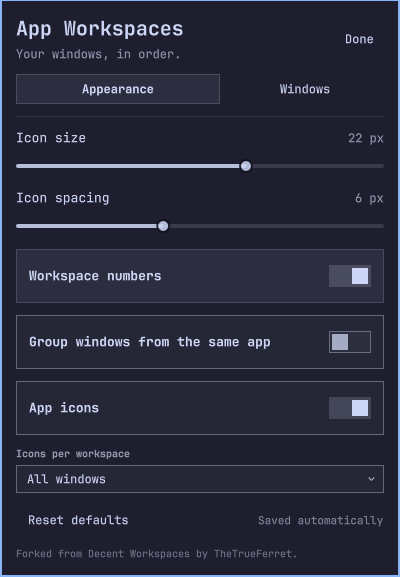
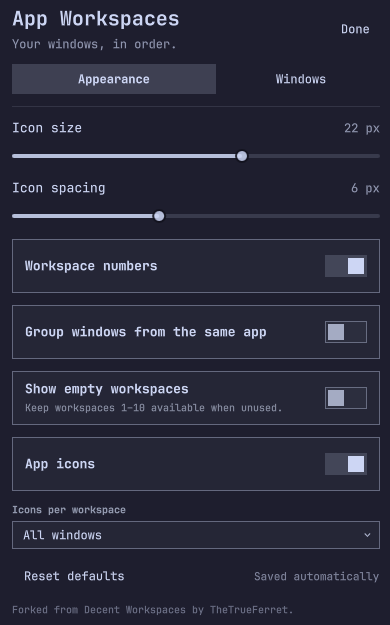
Fix settings clicks and show unused workspace destinations

Changed region(s): [[0.0, 0.0, 1.0, 1.0], [0.7077, 0.0936, 0.8308, 0.1872], [0.8615, 0.0312, 0.9538, 0.0936]]

diff --git a/Workspaces.qml b/Workspaces.qml
@@ -140,6 +140,15 @@ BarWidget {
   function open() { root.popupAnchor = strip; root.opened = true }
   function close() { root.opened = false }
   function toggle() { root.opened ? root.close() : root.open() }
+  // The bar and open KeyboardPanels forward clicks to registered WidgetButtons.
+  // Register app buttons after their enclosing pill so the narrower hit wins.
+  function syncClickTargets() {
+    for (var i = 0; i < workspaceRepeater.count; i++) {
+      var pill = workspaceRepeater.itemAt(i)
+      if (pill) pill.syncClickTargets()
+    }
+  }
+  onBarChanged: Qt.callLater(root.syncClickTargets)
   function setOption(key, value) {
     var normal = Model.normalizeSettings(({}))
     if (!Object.prototype.hasOwnProperty.call(normal, key)) return false
@@ -160,7 +169,7 @@ BarWidget {
     if (root.bar && root.bar.shell) root.bar.shell.updateEntryInline(root.moduleName, next)
   }
   function status() {
-    return JSON.stringify({version: "0.1.0", activeScratchpads: root.activeSpecialIds, options: root.options, screen: root.screenName, activeWorkspace: root.activeId,
+    return JSON.stringify({version: "0.1.0", settingsOpen: root.opened, activeScratchpads: root.activeSpecialIds, options: root.options, screen: root.screenName, activeWorkspace: root.activeId,
       workspaces: root.visibleWorkspaces.map(function(ws) { return {id: ws.id, name: ws.name, windows: root.presentWindows(ws.id)} })})
   }
   IpcHandler {
@@ -189,7 +198,9 @@ BarWidget {
     columnSpacing: 6
     rowSpacing: 6
     Repeater {
+      id: workspaceRepeater
       model: root.visibleWorkspaces
+      onItemAdded: Qt.callLater(root.syncClickTargets)
       Rectangle {
         id: pill
         required property var modelData
@@ -198,29 +209,38 @@ BarWidget {
         readonly property var apps: root.presentWindows(pill.modelData.id)
         readonly property var shownApps: !root.options.showIcons ? [] : root.options.maxIcons > 0 ? pill.apps.slice(0, root.options.maxIcons) : pill.apps
         readonly property int overflow: root.options.showIcons ? pill.apps.length - pill.shownApps.length : 0
+        function syncClickTargets() {
+          workspaceMouse.syncClickRegistration()
+          for (var i = 0; i < appRepeater.count; i++) {
+            var app = appRepeater.itemAt(i)
+            if (app) app.clickTarget.syncClickRegistration()
+          }
+        }
         implicitWidth: root.vertical ? root.barSize - 4 : content.implicitWidth + 18
         implicitHeight: root.vertical ? content.implicitHeight + 12 : root.barSize - 6
         radius: Math.min(9, height / 2)
         color: pill.modelData.urgent ? Util.alpha(Color.urgent, 0.23)
           : pill.active ? Util.alpha(root.foreground, 0.15)
-          : workspaceMouse.containsMouse ? Util.alpha(root.foreground, 0.07) : "transparent"
+          : workspaceMouse.tooltipHovered ? Util.alpha(root.foreground, 0.07) : "transparent"
         border.width: pill.active ? 1 : 0
         border.color: Util.alpha(root.foreground, 0.13)
-        MouseArea {
+        WidgetButton {
           id: workspaceMouse
           anchors.fill: parent
-          hoverEnabled: true
-          acceptedButtons: Qt.LeftButton | Qt.RightButton
-          cursorShape: Qt.PointingHandCursor
-          onClicked: function(mouse) {
-            if (mouse.button === Qt.RightButton) { root.popupAnchor = pill; root.opened = true }
-            else if (pill.special) root.toggleScratchpad(pill.modelData.name)
-            else root.focusWorkspace(pill.modelData.id)
+          bar: root.bar
+          labelVisible: false
+          hasVisualContent: true
+          onPressed: function(button) {
+            if (button === Qt.RightButton) { root.popupAnchor = pill; root.opened = true }
+            else if (button === Qt.LeftButton) {
+              if (pill.special) root.toggleScratchpad(pill.modelData.name)
+              else root.focusWorkspace(pill.modelData.id)
+            }
           }
-          onWheel: function(wheel) { root.scroll(wheel.angleDelta.y) }
+          onWheelMoved: function(delta) { root.scroll(delta) }
         }
         PanelToolTip {
-          visible: workspaceMouse.containsMouse && !root.opened
+          visible: workspaceMouse.tooltipHovered && !root.opened
           text: pill.special ? "Scratchpad: " + pill.modelData.name.replace(/^special:?/, "") : "Workspace " + pill.modelData.id
         }
         GridLayout {
@@ -243,10 +263,13 @@ BarWidget {
             Layout.rightMargin: root.vertical || pill.shownApps.length === 0 ? 0 : 2
           }
           Repeater {
+            id: appRepeater
             model: pill.shownApps
+            onItemAdded: Qt.callLater(root.syncClickTargets)
             Item {
               id: app
               required property var modelData
+              property alias clickTarget: appMouse
               implicitWidth: root.options.iconSize
               implicitHeight: root.options.iconSize
               Layout.alignment: Qt.AlignCenter
@@ -287,20 +310,20 @@ BarWidget {
                 border.width: 1
                 border.color: root.foreground
               }
-              MouseArea {
+              WidgetButton {
                 id: appMouse
                 anchors.fill: parent
-                hoverEnabled: true
-                acceptedButtons: Qt.LeftButton | Qt.RightButton
-                cursorShape: Qt.PointingHandCursor
-                onClicked: function(mouse) {
-                  if (mouse.button === Qt.RightButton) { root.popupAnchor = pill; root.opened = true }
-                  else root.focusWindow(app.modelData.address, pill.modelData.id)
+                bar: root.bar
+                labelVisible: false
+                hasVisualContent: true
+                onPressed: function(button) {
+                  if (button === Qt.RightButton) { root.popupAnchor = pill; root.opened = true }
+                  else if (button === Qt.LeftButton) root.focusWindow(app.modelData.address, pill.modelData.id)
                 }
-                onWheel: function(wheel) { root.scroll(wheel.angleDelta.y) }
+                onWheelMoved: function(delta) { root.scroll(delta) }
               }
               PanelToolTip {
-                visible: appMouse.containsMouse && !root.opened
+                visible: appMouse.tooltipHovered && !root.opened
                 text: app.modelData.name + (app.modelData.floating ? " · Floating" : "") + (app.modelData.pinned ? " · Pinned" : "") + (app.modelData.title && app.modelData.title !== app.modelData.name ? "\n" + app.modelData.title.substring(0, 180) : "")
               }
             }

diff --git a/WindowModel.js b/WindowModel.js
@@ -122,14 +122,23 @@ function normalizeSettings(raw) {
 }
 
 // Rows contain numeric id, monitor name and numeric windows count. Active ID
-// is the workspace active on this bar's monitor. Empty rows come from live
-// state; this function never synthesizes workspace numbers or caps them at 10.
+// is the workspace active on this bar's monitor. When requested, offer Omarchy's
+// standard 1–10 destinations even before Hyprland creates them. Keep live IDs
+// above 10, and never duplicate a workspace owned by another monitor.
 function visibleWorkspaces(workspaces, monitorName, activeId, settings) {
     settings = normalizeSettings(settings);
-    return (Array.isArray(workspaces) ? workspaces : []).filter(function (w) {
+    var rows = (Array.isArray(workspaces) ? workspaces : []).filter(function (w) {
         return w && typeof w.id === "number" && isFinite(w.id) && w.id > 0
-            && Math.floor(w.id) === w.id
-            && (!settings.perMonitor || w.monitor === monitorName)
+            && Math.floor(w.id) === w.id;
+    });
+    if (settings.showEmpty) {
+        for (var id = 1; id <= 10; id++) {
+            if (!rows.some(function(w) { return w.id === id; }))
+                rows.push({id: id, name: String(id), monitor: monitorName, windows: 0, placeholder: true});
+        }
+    }
+    return rows.filter(function(w) {
+        return (!settings.perMonitor || w.monitor === monitorName)
             && (settings.showEmpty || w.id === activeId || w.windows > 0);
     }).sort(function (a, b) { return a.id - b.id; });
 }

diff --git a/SettingsPanel.qml b/SettingsPanel.qml
@@ -122,8 +122,9 @@ KeyboardPanel {
         }
         Toggle {
           width: parent.width
-          visible: panel.page === "windows"
+          visible: panel.page === "appearance"
           label: "Show empty workspaces"
+          description: "Keep workspaces 1–10 available when unused."
           titleSize: 13
           checked: panel.widget.options.showEmpty
           onClicked: panel.widget.setOption("showEmpty", !checked)

diff --git a/docs/validation.md b/docs/validation.md
@@ -42,13 +42,58 @@ resolved correctly. Tray-only apps have no workspace window to display.
 Multiple monitors, vertical bars, mixed display scales, other themes, long
 scratchpad names, and every browser's PWA class convention have not received
 live coverage. Monitor filtering and spatial ordering have model coverage.
-Scratchpad focus was exercised through the same activation function used by
-app clicks; automated physical mouse clicking was not exercised.
+The initial scratchpad focus check used the activation function directly.
+The follow-up below adds compositor pointer coverage.
 
-Empty numbered workspaces depend on Hyprland's live workspace list. The empty
-scratchpad preference remembers names during the current shell session and
+With Show empty workspaces enabled, unused destinations 1–10 remain available.
+Other empty numbered workspaces depend on Hyprland's live workspace list.
+The empty scratchpad preference remembers names during the current shell session and
 always offers `special:scratchpad`. It does not create permanent workspace rules.
 
 The native settings panel scrolls when a display cannot fit its full height.
 Very short vertical bars and workspace strips with many windows may need an
 icon limit. The plugin does not automatically hide occupied workspaces to fit.
+
+## Settings follow-up, 2026-09-08
+
+Reproduced a missed right-click when another native panel was open. With the
+calendar open, right-clicking an app only dismissed the calendar. With panels
+closed, the same click opened App Workspaces settings. The plugin's MouseAreas
+were absent from the bar's registered click targets, which KeyboardPanel uses
+to forward clicks from its overlay.
+
+Workspace pills and app icons now use native WidgetButtons. Registration puts
+app buttons after their enclosing pill so forwarded clicks select the app.
+The `status` response includes `settingsOpen` for verification.
+
+Show empty workspaces moved to Appearance. Previously it only included empty
+workspaces still present in Hyprland's live list, so toggling it could leave
+the bar unchanged. It now offers unused destinations 1–10, matching Omarchy's
+standard number shortcuts. It preserves live IDs above 10 and excludes known
+workspaces on other monitors when Only this monitor is enabled. These are bar
+destinations, with no persistent workspace rules installed.
+
+Live checks used a temporary Wayland virtual pointer on the existing horizontal
+floating bar. No mouse-button binding or input configuration was installed.
+
+- Right-click opened settings on a workspace label and an app icon with panels
+  closed, and from the open calendar. The scratchpad also opened settings from
+  the calendar.
+- Left-click on an app from the calendar focused its exact window address.
+- Settings stayed open after an explicit model refresh and the periodic refresh.
+- Clicking Done closed settings.
+- Clicking Show empty workspaces in Appearance displayed destinations 1–10.
+  Clicking empty destination 4 activated workspace 4. Returning to the original
+  workspace and disabling the option restored the occupied numbers 1, 2, and 3.
+- Mouse navigation reached Windows, where Show empty workspaces was absent.
+  Both settings screenshots were refreshed with panel-only captures.
+- The installer preserved saved options. After the checks, Show empty workspaces
+  was restored to off. A cropped bar capture confirmed the existing appearance.
+  The running log had no plugin QML warnings or errors.
+- Native plugin validation passed. `qmllint` on both QML files with resolved
+  native imports exited zero, with warnings for dynamic properties and outer IDs.
+- All 16 Node model tests passed. The regression for missing unused destinations
+  failed against the previous model before the fix.
+
+The installer was unchanged, so its earlier tests were not repeated. The other
+live coverage limits above still apply.

diff --git a/README.md b/README.md
@@ -80,7 +80,7 @@ toggles. Escape closes the panel. Reset defaults resets both pages.
 | Icon spacing | 6 px | 2–12 px. |
 | Icons per workspace | All | Limit the visible count and show `+N` for the rest. |
 | Group windows from the same app | Off | Show the leftmost window for each class; clicking focuses that representative. |
-| Show empty workspaces | Off | Include empty workspaces reported by Hyprland; never invent numbers 1–10. |
+| Show empty workspaces | Off | In Appearance. Include unused destinations 1–10 and other empty workspaces reported by Hyprland. |
 | Only this monitor | On | Filter numbered workspaces to the bar's monitor. |
 | Show scratchpads | On | Separate pills for special workspaces. |
 | Keep empty scratchpads visible | Off | Retain the default scratchpad and named scratchpads encountered during this shell session. |
@@ -123,7 +123,8 @@ omarchy-shell io.github.zucram.app-workspaces refresh
 omarchy-shell io.github.zucram.app-workspaces open
 ```
 
-`status` reports local window titles, icon sources, ordering, and settings.
+`status` reports local window titles, icon sources, ordering, settings, and
+whether the settings panel is open (`settingsOpen`).
 Review titles before sharing its output. Nothing is transmitted by the plugin.
 Window events trigger a refresh; a one-second compositor refresh also catches
 geometry changes that have no event. Unchanged snapshots keep their delegates.

diff --git a/docs/marketplace-submission.md b/docs/marketplace-submission.md
@@ -4,6 +4,10 @@ Status: prepared locally. The public repository has not been created and no
 marketplace issue has been sent. The planned repository is
 `https://github.com/zucram/omarchy-app-workspaces`.
 
+The initial local `v0.1.0` tag and archive predate the settings follow-up in
+`docs/validation.md`. Prepare the final release tag and archive from reviewed
+main before publication. The public submission still requires owner approval.
+
 Review the preview, README, license, and validation limits before publication.
 The owner must confirm the five checklist statements in the
 [official submission guide](https://github.com/omacom/omarchy-plugin-marketplace/blob/main/SUBMISSION.md).
